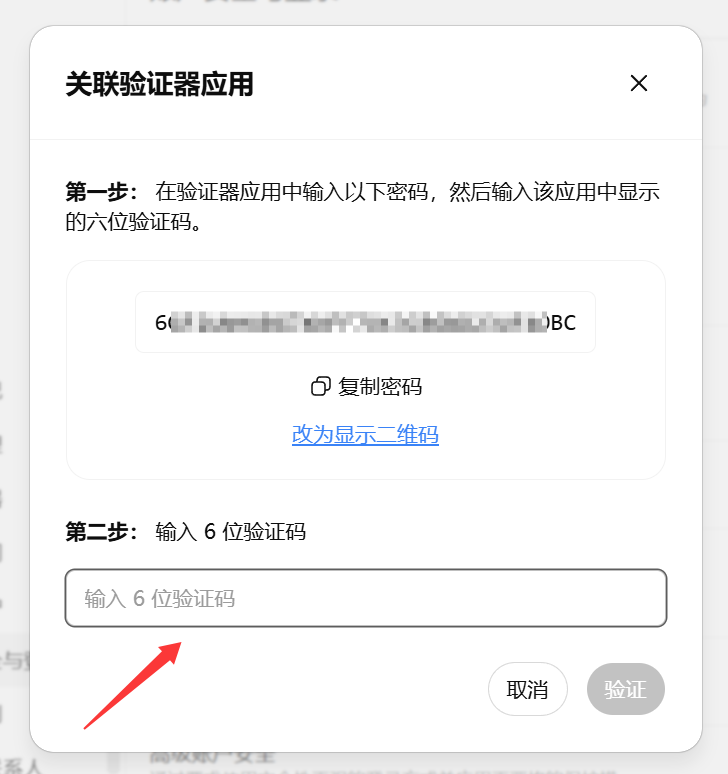
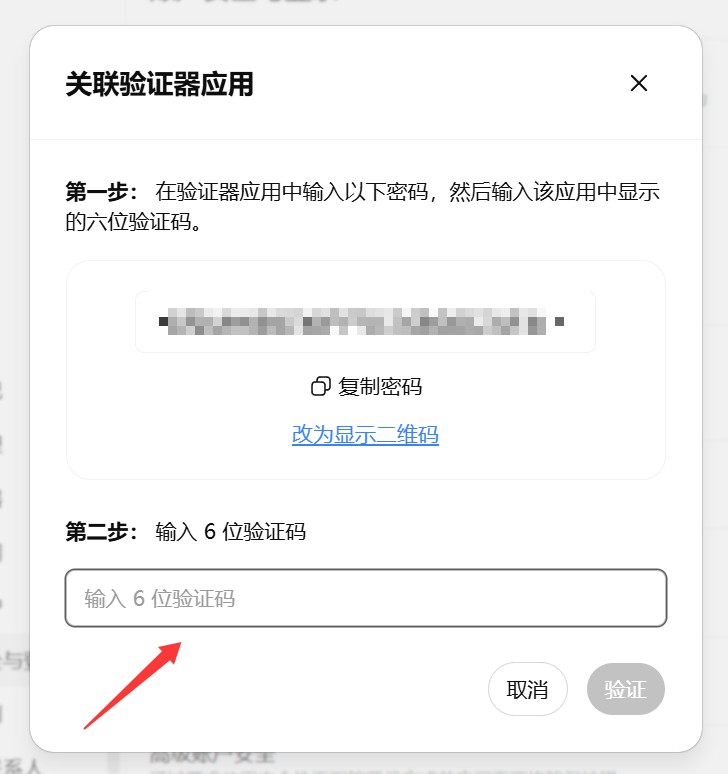
fix(ui): restore admin product dialog fields, remove SIM address truncation/duplication, and finalize image redaction

Changed region(s): [[0.2115, 0.3721, 0.7857, 0.4341]]

diff --git a/app/admin/categories/page.tsx b/app/admin/categories/page.tsx
@@ -1312,6 +1312,9 @@ function ProductDialog({
               onChange={(event) => onUpdate({ ...form, short_description: event.target.value })}
             />
           </Field>
+          <Field label="详细说明" className="sm:col-span-2">
+            <Textarea rows={3} value={form.description} onChange={(event) => onUpdate({ ...form, description: event.target.value })} />
+          </Field>
           <Field label="主图地址" className="sm:col-span-2" error={errors.image_url}>
             <div className="flex gap-3">
               <Input
@@ -1334,6 +1337,9 @@ function ProductDialog({
           </Field>
           <Field label="库存 (默认/基础库存)" error={errors.stock} required>
             <Input type="number" min="0" step="1" value={form.stock} onChange={(event) => onUpdate({ ...form, stock: event.target.value })} />
+          </Field>
+          <Field label="排序" error={errors.sort_order} required>
+            <Input type="number" step="1" value={form.sort_order} onChange={(event) => onUpdate({ ...form, sort_order: event.target.value })} />
           </Field>
           <Field label="交付方式" required>
             <select
@@ -1360,6 +1366,10 @@ function ProductDialog({
                 </option>
               ))}
             </select>
+          </Field>
+
+          <Field label="metadata.note" className="sm:col-span-2">
+            <Input value={form.metadata_note} onChange={(event) => onUpdate({ ...form, metadata_note: event.target.value })} />
           </Field>
 
           <div className="sm:col-span-2 mt-2 rounded-xl border border-slate-200 bg-slate-50/60 p-4">

diff --git a/app/checkout/page.tsx b/app/checkout/page.tsx
@@ -688,7 +688,7 @@ function CheckoutPageContent() {
           customer_note: [
             hasSku ? `SKU：${selectedSku.label}` : "",
             isShippingProduct
-              ? `收货地址：${shippingRegion.trim()} ${shippingAddress.trim()}`
+              ? `收货地址：${shippingRegion.trim() === shippingAddress.trim() ? shippingAddress.trim() : `${shippingRegion.trim()} ${shippingAddress.trim()}`.trim()}`
               : "",
             customerNote,
           ]
@@ -869,7 +869,7 @@ function CheckoutPageContent() {
                       onChange={(event) => {
                         const nextAddress = event.target.value;
                         setShippingAddress(nextAddress);
-                        setShippingRegion(nextAddress.trim() ? nextAddress.trim().slice(0, 24) : "");
+                        setShippingRegion(nextAddress);
                       }}
                       placeholder="请输入省市区街道门牌等详细收货地址"
                       className="h-10 w-full bg-slate-50 text-sm"
